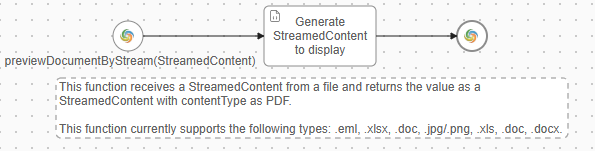
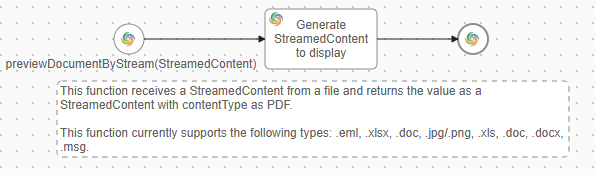
MARP-3165 Update msg extension for v13 (#356)

diff --git a/doc-factory/src/com/axonivy/utils/docfactory/preview/DocumentPreviewService.java b/doc-factory/src/com/axonivy/utils/docfactory/preview/DocumentPreviewService.java
@@ -7,6 +7,7 @@ import java.io.FileInputStream;
 import java.io.IOException;
 import java.io.InputStream;
 import java.nio.file.Files;
+import java.util.List;
 
 import org.primefaces.model.DefaultStreamedContent;
 import org.primefaces.model.StreamedContent;
@@ -17,8 +18,12 @@ import com.aspose.email.MailMessage;
 import com.aspose.words.Document;
 import com.aspose.words.LoadFormat;
 import com.aspose.words.LoadOptions;
+import com.aspose.words.Orientation;
+import com.aspose.words.PageSetup;
 import com.aspose.words.SaveFormat;
+import com.aspose.words.Section;
 
+import ch.ivyteam.ivy.addons.docfactory.DocFactoryConstants;
 import ch.ivyteam.ivy.addons.docfactory.aspose.AsposeProduct;
 import ch.ivyteam.ivy.addons.docfactory.aspose.LicenseLoader;
 import ch.ivyteam.ivy.environment.Ivy;
@@ -29,6 +34,7 @@ import static ch.ivyteam.ivy.addons.docfactory.DocFactoryConstants.XLS_EXTENSION
 import static ch.ivyteam.ivy.addons.docfactory.DocFactoryConstants.DOC_EXTENSION;
 import static ch.ivyteam.ivy.addons.docfactory.DocFactoryConstants.DOCX_EXTENSION;
 import static ch.ivyteam.ivy.addons.docfactory.DocFactoryConstants.EML_EXTENSION;
+import static ch.ivyteam.ivy.addons.docfactory.DocFactoryConstants.MSG_EXTENSION;;
 
 public class DocumentPreviewService {
 
@@ -38,6 +44,10 @@ public class DocumentPreviewService {
 
   public static DocumentPreviewService getInstance() {
     return INSTANCE;
+  }
+  
+  public List<String> getSupportedTypeForPreview() {
+    return DocFactoryConstants.SUPPORTED_TYPES_FOR_PREVIEW;
   }
 
   public StreamedContent generateStreamedContent(File file) throws Exception {
@@ -72,7 +82,8 @@ public class DocumentPreviewService {
     } else if (fileName.endsWith(DOC_EXTENSION) || fileName.endsWith(DOCX_EXTENSION)) {
       LicenseLoader.loadLicenseforProduct(AsposeProduct.WORDS);
       content = convertWordToPdfStreamedContent(fileContent, fileName);
-    } else if (fileName.endsWith(EML_EXTENSION)) {
+    } else if (fileName.endsWith(EML_EXTENSION) || fileName.endsWith(MSG_EXTENSION)) {
+      LicenseLoader.loadLicenseforProduct(AsposeProduct.WORDS);
       LicenseLoader.loadLicenseforProduct(AsposeProduct.EMAIL);
       content = convertEmlToPdfStreamedContent(fileContent, fileName);
     } else {
@@ -124,6 +135,10 @@ public class DocumentPreviewService {
 
       try (InputStream mhtmlInput = new ByteArrayInputStream(mhtmlStream.toByteArray())) {
         Document doc = new Document(mhtmlInput);
+        for (Section section : doc.getSections()) {
+          PageSetup pageSetup = section.getPageSetup();
+          pageSetup.setOrientation(Orientation.LANDSCAPE);
+        }
         doc.save(pdfOut, SaveFormat.PDF);
       }
       return convertOutputStreamToStreamedContent(pdfOut, fileName);

diff --git a/doc-factory/src/ch/ivyteam/ivy/addons/docfactory/DocFactoryConstants.java b/doc-factory/src/ch/ivyteam/ivy/addons/docfactory/DocFactoryConstants.java
@@ -1,5 +1,6 @@
 package ch.ivyteam.ivy.addons.docfactory;
 
+import java.util.List;
 import java.util.Locale;
 
 public final class DocFactoryConstants {
@@ -13,6 +14,7 @@ public final class DocFactoryConstants {
   public static final String XLS_EXTENSION = ".xls";
   public static final String XLSX_EXTENSION = ".xlsx";
   public static final String EML_EXTENSION = ".eml";
+  public static final String MSG_EXTENSION = ".msg";
   public static final String PDF_CONTENT_TYPE = "application/pdf";
   public static final String XLSX_CONTENT_TYPE = "application/vnd.openxmlformats-officedocument.spreadsheetml.sheet";
   public static final String WORD_CONTENT_TYPE =
@@ -35,4 +37,6 @@ public final class DocFactoryConstants {
 
   public static final String DEFAULT_FILE_NAME = "defaultDocFactoryFileName";
 
+  public static final List<String> SUPPORTED_TYPES_FOR_PREVIEW =
+      List.of(DOC_EXTENSION, DOCX_EXTENSION, XLS_EXTENSION, XLSX_EXTENSION, EML_EXTENSION, MSG_EXTENSION);
 }

diff --git a/doc-factory-doc/source/doc-factory/callable-processes.rst b/doc-factory-doc/source/doc-factory/callable-processes.rst
@@ -244,3 +244,7 @@ The function named **previewDocument** allows reading documents with specific ty
    +-----------------+------------+------------------------+---------------------------------------------------------------+
 
 .. figure:: /_static/images/callable-processes-6.png
+
+The function named **getSupportedTypeForPreview** allows getting all types that supported for **previewDocument** function
+
+.. figure:: /_static/images/callable-processes-9.png
